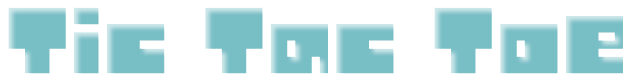
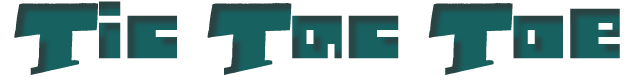
kl

diff --git a/src/web/tictactoe/src/mmenu.js b/src/web/tictactoe/src/mmenu.js
@@ -38,7 +38,8 @@ define("zotohlab/p/mmenu", ['cherimoia/skarojs',
       rtti: function() { return "BGLayer"; },
 
       ctor: function() {
-        this._super(cc.color(38,119,120));
+        //this._super(cc.color(38,119,120));
+        this._super(cc.color(72,142,142));
       }
 
     }),
@@ -63,7 +64,8 @@ define("zotohlab/p/mmenu", ['cherimoia/skarojs',
         tt.setPosition(cw.x, wb.top * 0.9);
         tt.setOpacity(0.9*255);
         tt.setScale(0.2);
-        tt.setColor(cc.color(117,189,197));
+        tt.setColor(cc.color(23,98,98));
+
         this.addItem(tt);
 
         menu= ccsx.pmenu([
@@ -99,7 +101,7 @@ define("zotohlab/p/mmenu", ['cherimoia/skarojs',
             },
             target: me },
         ]);
-        menu.alignItemsVerticallyWithPadding(2);
+        menu.alignItemsVerticallyWithPadding(10);
         menu.setPosition(cw.x, cw.y);
         this.addItem(menu);
 

diff --git a/src/web/tictactoe/src/splash.js b/src/web/tictactoe/src/splash.js
@@ -26,7 +26,8 @@ define("zotohlab/p/splash", ['cherimoia/skarojs',
       rtti: function() { return "BGLayer"; },
 
       ctor: function() {
-        this._super(cc.color(38,119,120));
+        //this._super(cc.color(38,119,120));
+        this._super(cc.color(72,142,142));
       }
 
     }),

diff --git a/src/web/tictactoe/src/hud.js b/src/web/tictactoe/src/hud.js
@@ -26,7 +26,8 @@ define("zotohlab/p/hud", ['cherimoia/skarojs',
       rtti: function() { return 'BackLayer'; },
 
       ctor: function() {
-        this._super(cc.color(38,119,120));
+        //this._super(cc.color(38,119,120));
+        this._super(cc.color(72,142,142));
       }
 
     }),
